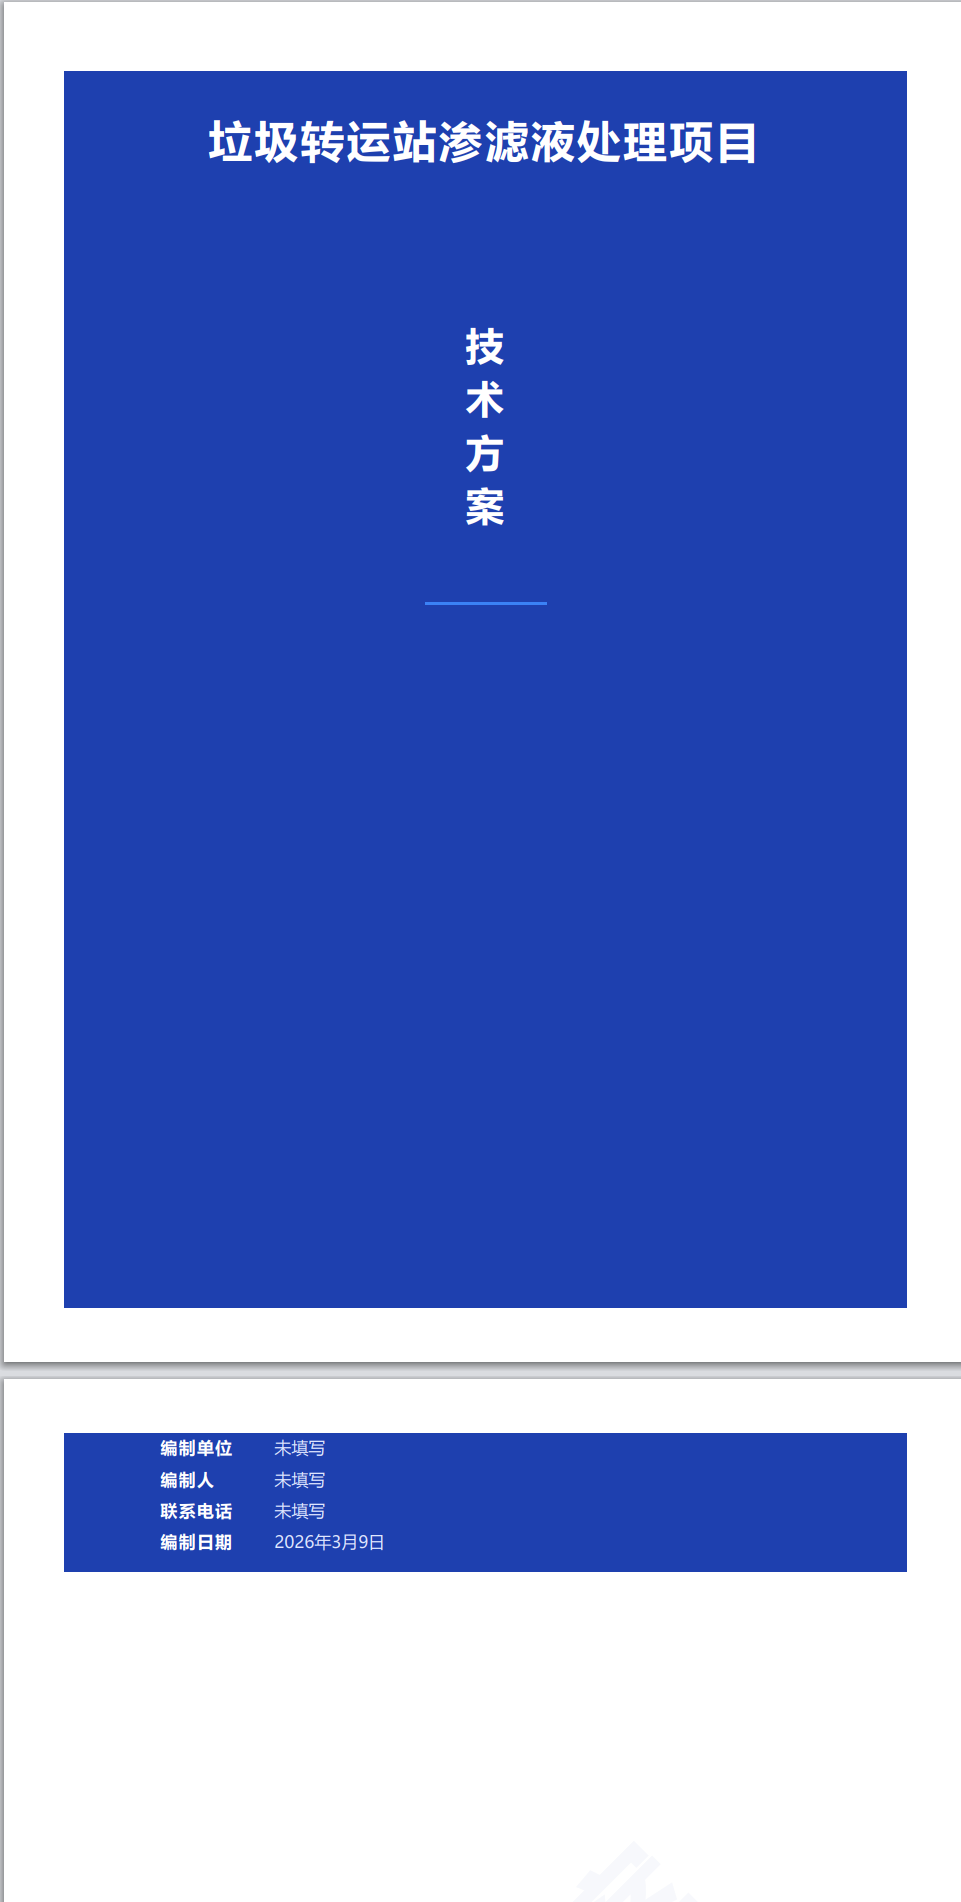
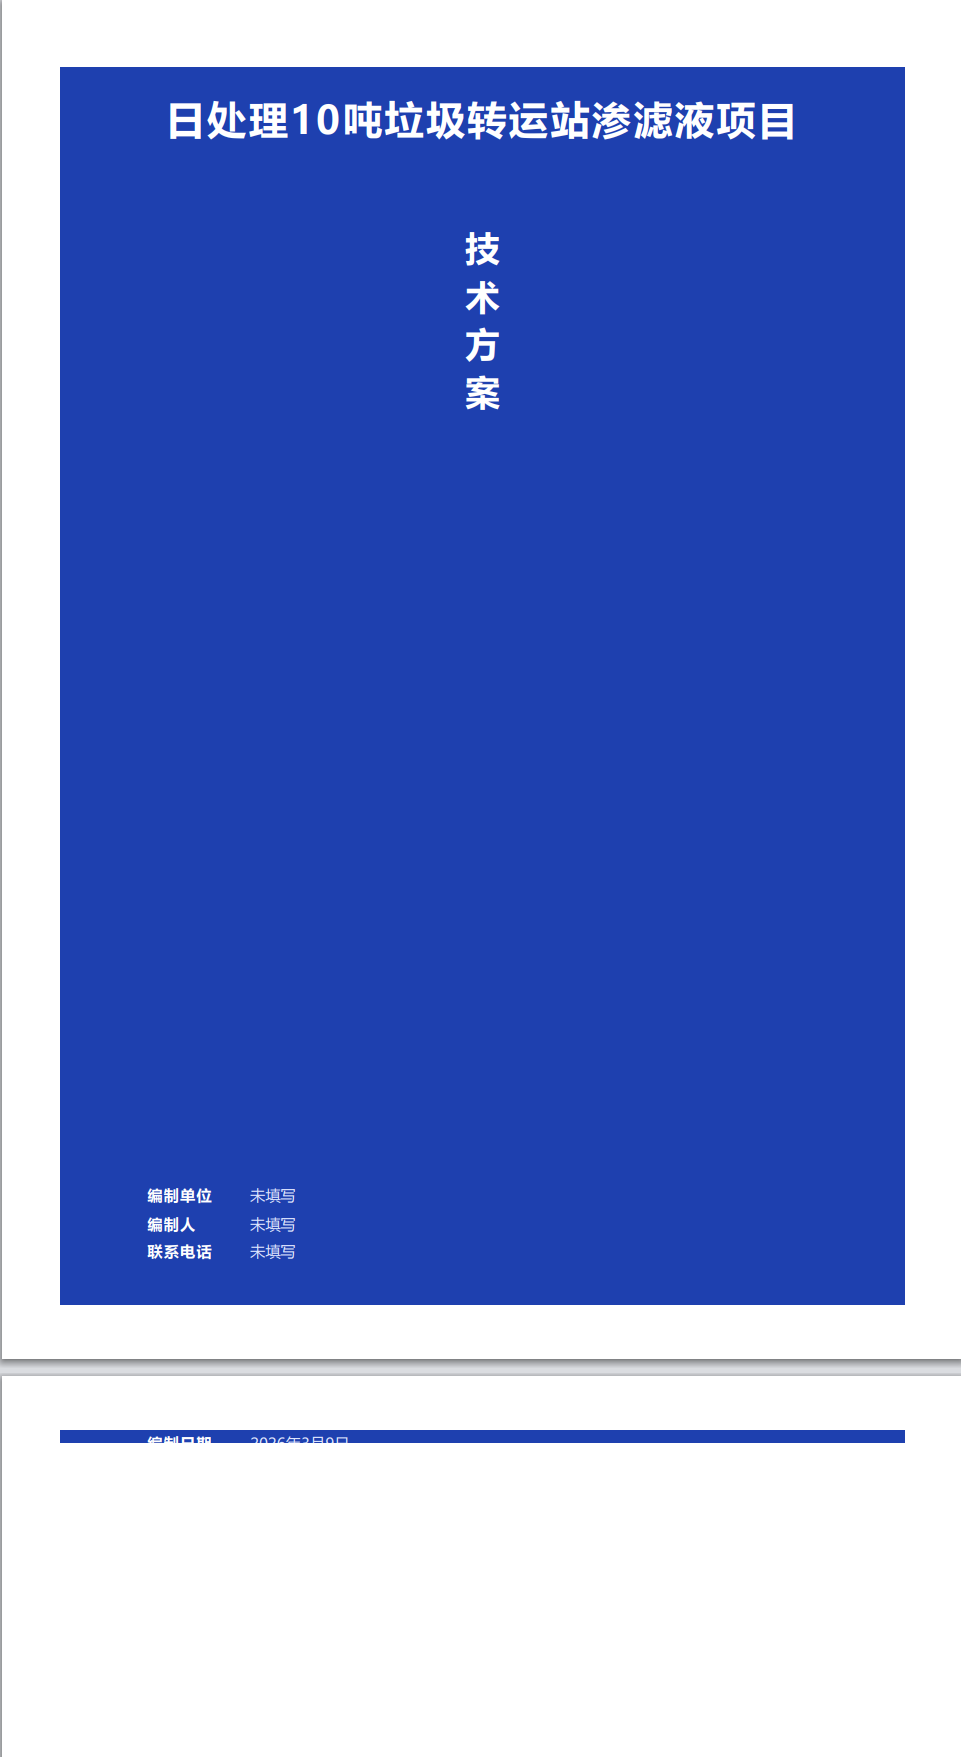
fix: 提高PDF封面编制信息位置并优化竖排文字位置
关键修改：
- 将编制信息底部距离从bottom: 0改为bottom: 50px，向上移动编制信息
- 增加竖排文字margin-top从60px到80px，让竖排文字更居中
- 增加竖排文字height从200px到220px，让竖排文字更醒目
- 减少Word导出中编制信息padding-bottom从40pt到30pt，向上移动编制信息
- 保持封面高度限制在100vh，确保所有内容在第一页

效果：
- 编制信息向上移动50px，不再紧贴底部
- 竖排文字更接近垂直居中位置
- 整体布局更加协调美观
- 主标题、竖排文字、编制信息分布更均衡
- PDF和Word导出效果一致

Changed region(s): [[0.0, 0.0307, 1.0, 0.8298], [0.1561, 0.0307, 0.8429, 0.0922], [0.4683, 0.1229, 0.5307, 0.2766]]

diff --git a/src/components/chat-message.tsx b/src/components/chat-message.tsx
@@ -1275,7 +1275,7 @@ export default function ChatMessage({
       max-width: 500pt;
       line-height: 1.8;
       text-align: left;
-      padding-bottom: 40pt;
+      padding-bottom: 30pt;
     }
 
     .cover-info p {
@@ -1755,8 +1755,8 @@ export default function ChatMessage({
       font-size: 32px;
       color: #ffffff;
       letter-spacing: 12px;
-      height: 200px;
-      margin: 60px auto 0;
+      height: 220px;
+      margin: 80px auto 0;
       font-weight: bold;
       line-height: 1.5;
     }
@@ -1773,7 +1773,7 @@ export default function ChatMessage({
       padding: 5px 80px 20px 80px;
       text-align: left;
       position: absolute;
-      bottom: 0;
+      bottom: 50px;
       left: 0;
       right: 0;
     }
